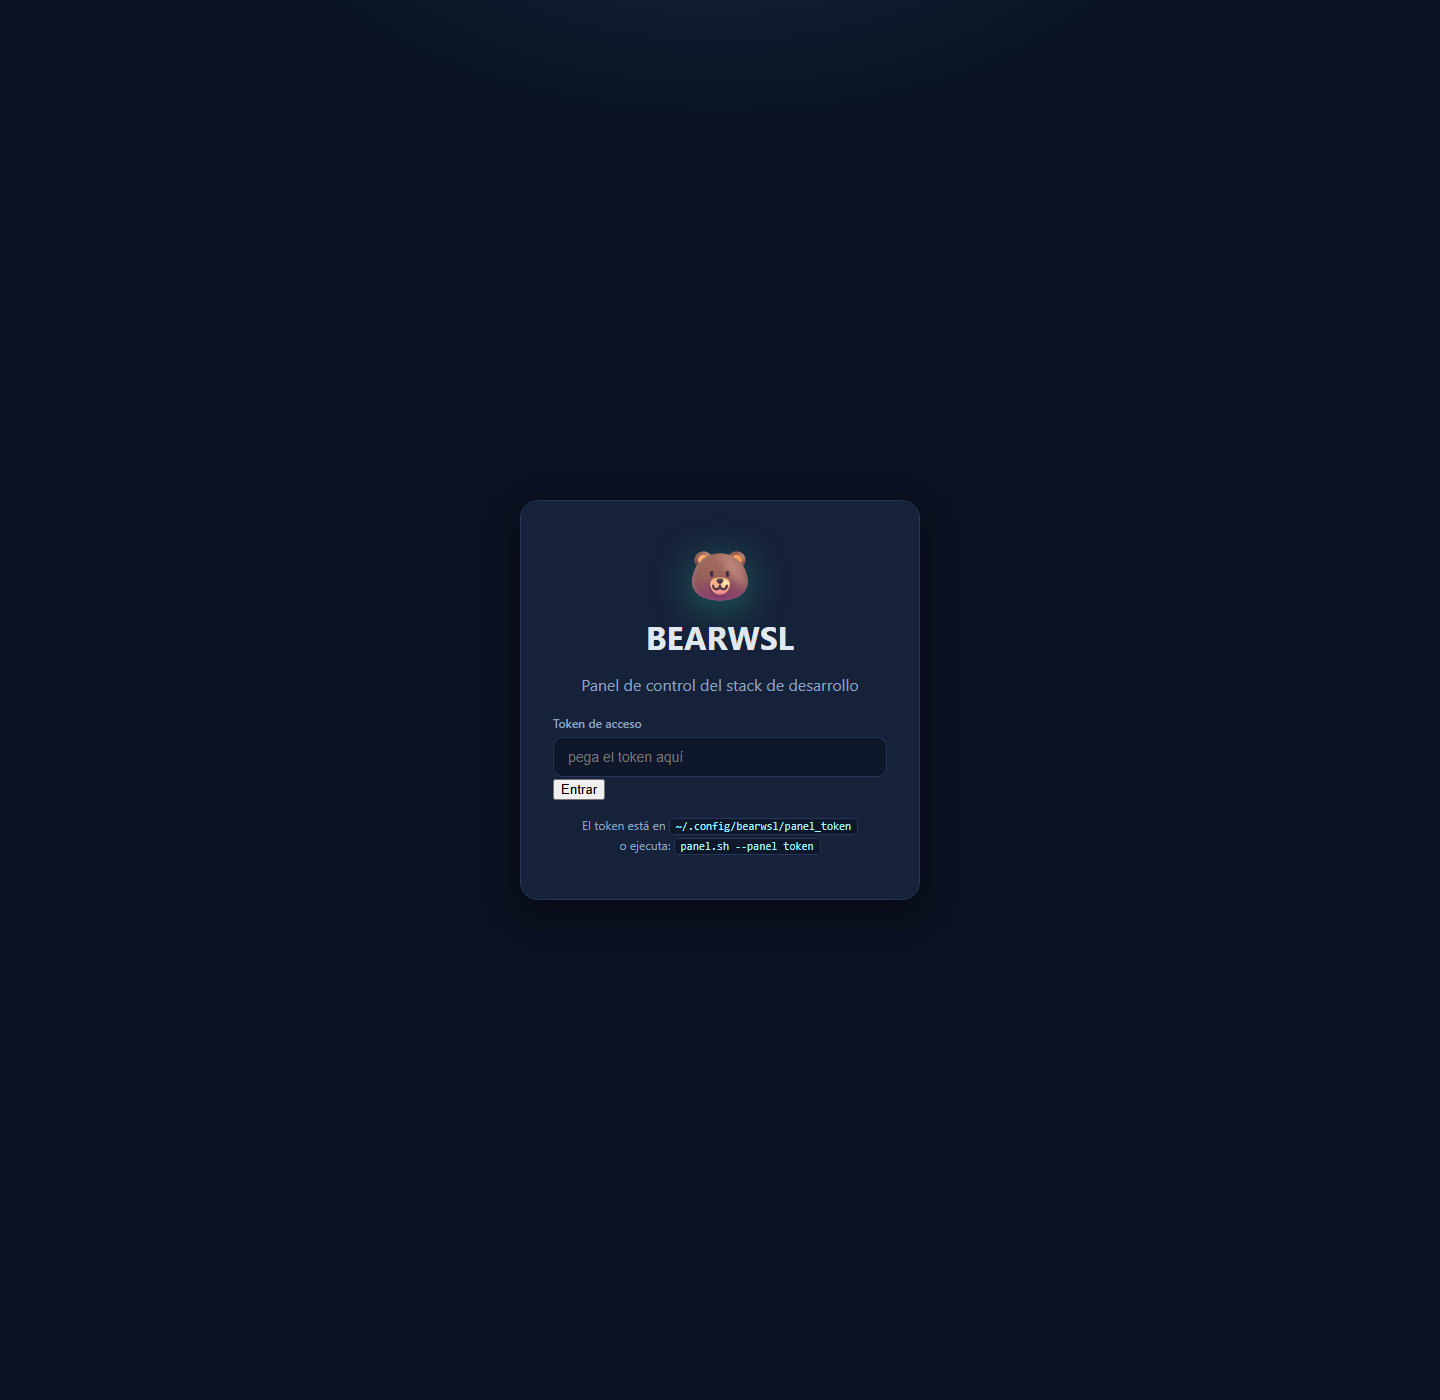
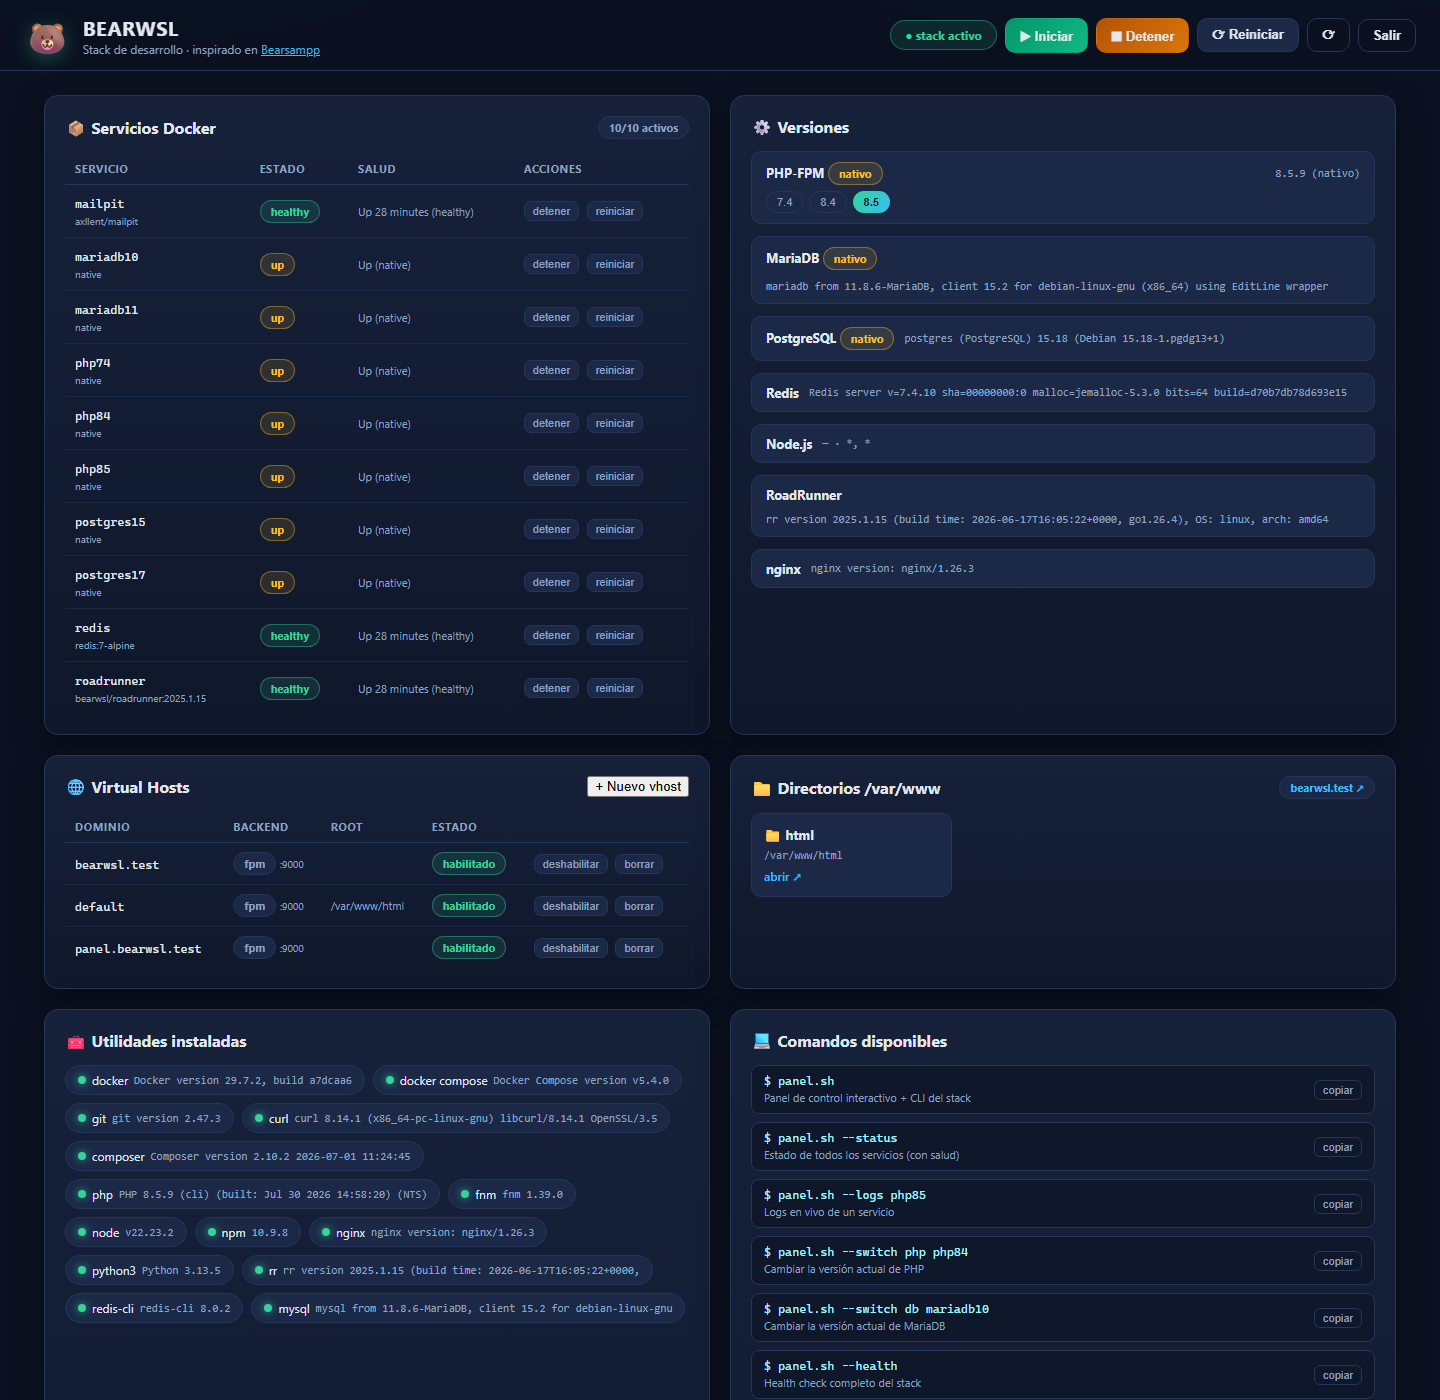
Panel: acceso con token en URL + capturas de login y panel autenticado + README del token

diff --git a/README.md b/README.md
@@ -51,9 +51,13 @@ systemd=true
 
 ## 📸 Capturas
 
-| Panel web (vista principal) | Panel web (vista completa) |
+| Acceso (solicitud de token) | Panel web autenticado |
 |:---:|:---:|
-| ![Panel BEARWSL](docs/panel-overview.png) | ![Panel BEARWSL completo](docs/panel-full.png) |
+| ![Solicitud de token](docs/panel-login.png) | ![Panel BEARWSL](docs/panel-overview.png) |
+
+| Panel web autenticado (vista completa) |
+|:---:|
+| ![Panel BEARWSL completo](docs/panel-full.png) |
 
 ---
 
@@ -109,7 +113,23 @@ vhost.sh crear api.test api fpm|roadrunner   # Crear un vhost *.test
 
 - **URL**: `http://panel.bearwsl.test:8088` (o `http://127.0.0.1:8088`)
 - Estado en vivo de los 10 servicios, botones de control y creación de vhosts.
-- El token del panel se muestra al final de la instalación y también vive en `~/.config/bearwsl/panel_token`.
+
+#### 🔑 El panel pide un token para entrar
+
+El panel está protegido: al abrirlo por primera vez te pedirá un **token de acceso**. Puedes obtenerlo de dos formas:
+
+1. Se muestra al final de la instalación (línea *Token panel*).
+2. Está guardado en `~/.config/bearwsl/panel_token`:
+
+   ```bash
+   cat ~/.config/bearwsl/panel_token
+   ```
+
+Introduce el token en la pantalla de acceso y la sesión quedará abierta en tu navegador. También puedes entrar directamente con el token en la URL:
+
+```
+http://panel.bearwsl.test:8088/?token=<tu-token>
+```
 
 ### Proyectos
 
